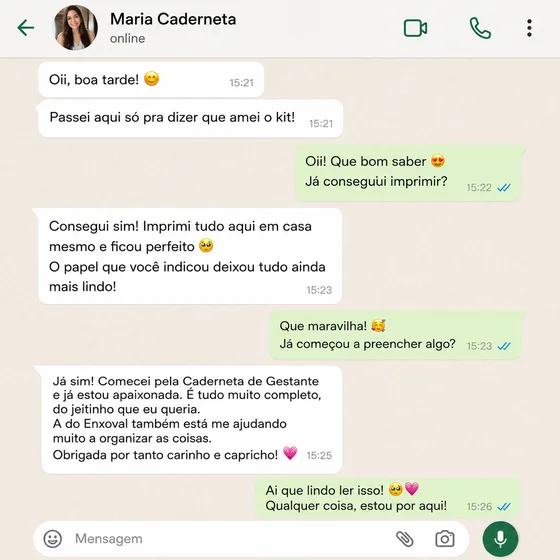
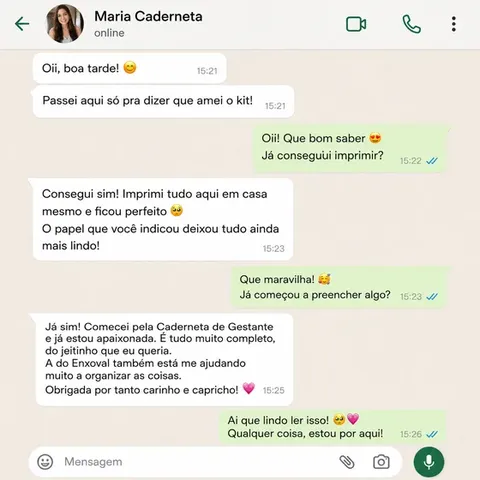
Otimiza performance mobile (PageSpeed: 69 -> Desempenho)
- Redimensiona imagens para o tamanho real exibido (~704 KiB de
  economia): esteira 700x1050->450x675, bônus 700x700->220x220,
  depoimentos 560x560->480x480. Capa do hero ganha arquivo próprio
  (640x960, nítida) separado da miniatura da esteira (antes
  compartilhavam o mesmo arquivo).
- Corrige distorção/CLS: adiciona height:auto na regra base de img
  (o width/height do hero estava esticando a imagem fora de
  proporção quando o container era mais estreito que o atributo).
- fetchpriority=high + width/height explícitos em todas as imagens
  (elimina layout shift, CLS estava em 0.185).
- Carrega a fonte do Google Fonts de forma assíncrona
  (preload + swap), removendo ~2.3s de bloqueio de renderização.
- Corrige contraste do texto branco sobre terracota (.btn, .urgency,
  ribbon "Mais escolhida") trocando para terracota mais escura,
  dentro do mínimo de 4.5:1 do WCAG AA.
- Ribbon do plano completo: troca animação de background-position
  (não compositada) por um brilho via transform, mais leve.
- Adiciona landmark <main> ao redor do conteúdo principal.

diff --git a/index.html b/index.html
@@ -8,7 +8,9 @@
 <meta name="description" content="Caderneta para imprimir e acompanhar a gravidez, o pré-natal e o pós-parto. 77 páginas, acesso imediato, com bônus grátis.">
 <link rel="preconnect" href="https://fonts.googleapis.com">
 <link rel="preconnect" href="https://fonts.gstatic.com" crossorigin>
-<link href="https://fonts.googleapis.com/css2?family=Fraunces:ital,opsz,wght@0,9..144,400;0,9..144,560;0,9..144,650;1,9..144,500&family=Inter:wght@400;500;600;700;800;900&display=swap" rel="stylesheet">
+<link rel="preload" as="style" href="https://fonts.googleapis.com/css2?family=Fraunces:ital,opsz,wght@0,9..144,400;0,9..144,560;0,9..144,650;1,9..144,500&family=Inter:wght@400;500;600;700;800;900&display=swap">
+<link rel="stylesheet" href="https://fonts.googleapis.com/css2?family=Fraunces:ital,opsz,wght@0,9..144,400;0,9..144,560;0,9..144,650;1,9..144,500&family=Inter:wght@400;500;600;700;800;900&display=swap" media="print" onload="this.media='all'">
+<noscript><link rel="stylesheet" href="https://fonts.googleapis.com/css2?family=Fraunces:ital,opsz,wght@0,9..144,400;0,9..144,560;0,9..144,650;1,9..144,500&family=Inter:wght@400;500;600;700;800;900&display=swap"></noscript>
 <style>
 
 /* ---------- Tokens ---------- */
@@ -44,7 +46,7 @@ body{
   line-height:1.5;
   padding-bottom:76px;
 }
-img{max-width:100%;display:block;}
+img{max-width:100%;height:auto;display:block;}
 h1,h2,h3{
   font-family:"Fraunces",Georgia,"Times New Roman",serif;
   color:var(--ink);
@@ -74,7 +76,7 @@ button{font-family:inherit;cursor:pointer;}
 /* ---------- Urgency bar ---------- */
 .urgency{
   position:sticky;top:0;z-index:40;
-  background:var(--terracotta);
+  background:var(--terracotta-dark);
   color:#fff;
   padding:9px 16px;
   text-align:center;
@@ -141,7 +143,7 @@ button{font-family:inherit;cursor:pointer;}
 
 .btn{
   display:inline-flex;align-items:center;justify-content:center;gap:8px;
-  background:var(--terracotta);
+  background:var(--terracotta-dark);
   color:#fff;
   font-weight:800;
   font-size:16px;
@@ -368,17 +370,24 @@ button{font-family:inherit;cursor:pointer;}
 .plan .ribbon{
   position:absolute;top:-15px;left:20px;
   display:flex;align-items:center;gap:5px;
-  background:linear-gradient(100deg, var(--terracotta) 0%, var(--rose) 45%, var(--terracotta) 100%);
-  background-size:220% 100%;
+  background:var(--terracotta-dark);
   color:#fff;font-size:11.5px;font-weight:800;
   letter-spacing:.04em;text-transform:uppercase;
   padding:7px 14px;border-radius:999px;
-  box-shadow:0 8px 16px -6px rgba(200,104,95,.6);
+  box-shadow:0 8px 16px -6px rgba(168,82,74,.6);
+  overflow:hidden;
+}
+.plan .ribbon::after{
+  content:"";
+  position:absolute;top:0;left:0;
+  width:40%;height:100%;
+  background:linear-gradient(100deg, transparent, rgba(255,255,255,.5), transparent);
+  transform:translateX(-180%) skewX(-20deg);
   animation:ribbon-shine 3.5s ease-in-out infinite;
 }
 @keyframes ribbon-shine{
-  0%,100%{background-position:0% 50%;}
-  50%{background-position:100% 50%;}
+  0%, 55%{transform:translateX(-180%) skewX(-20deg);}
+  100%{transform:translateX(380%) skewX(-20deg);}
 }
 #planCompleto .btn{
   font-size:16.5px;padding:18px 26px;
@@ -557,6 +566,7 @@ footer .credit{margin-top:14px;font-size:12px;color:var(--ink-soft);}
   <span class="brandmark">Caderneta da Gestante</span>
 </div>
 
+<main>
 <!-- HERO -->
 <section class="hero">
   <div class="blob"></div>
@@ -577,7 +587,7 @@ footer .credit{margin-top:14px;font-size:12px;color:var(--ink-soft);}
     </div>
 
     <div class="hero-cover">
-      <img src="assets/preview/capa.webp" alt="Capa da Caderneta da Gestante" width="420" height="420" loading="eager">
+      <img src="assets/preview/capa.webp" alt="Capa da Caderneta da Gestante" width="640" height="960" loading="eager" fetchpriority="high">
       <span class="tag">77 páginas ✎</span>
     </div>
   </div>
@@ -595,22 +605,22 @@ footer .credit{margin-top:14px;font-size:12px;color:var(--ink-soft);}
 
   <div class="esteira">
     <div class="esteira-track">
-      <img src="assets/preview/capa.webp" alt="Capa">
-      <img src="assets/preview/calendario.webp" alt="Calendário da gestação">
-      <img src="assets/preview/semana.webp" alt="Acompanhamento semana a semana">
-      <img src="assets/preview/exames.webp" alt="Controle de exames">
-      <img src="assets/preview/plano-parto.webp" alt="Plano de parto">
-      <img src="assets/preview/mala-maternidade.webp" alt="Checklist da mala da maternidade">
-      <img src="assets/preview/amamentacao.webp" alt="Controle de amamentação">
-      <img src="assets/preview/cartinha.webp" alt="Mensagens para o bebê">
-      <img src="assets/preview/capa.webp" alt="" aria-hidden="true">
-      <img src="assets/preview/calendario.webp" alt="" aria-hidden="true">
-      <img src="assets/preview/semana.webp" alt="" aria-hidden="true">
-      <img src="assets/preview/exames.webp" alt="" aria-hidden="true">
-      <img src="assets/preview/plano-parto.webp" alt="" aria-hidden="true">
-      <img src="assets/preview/mala-maternidade.webp" alt="" aria-hidden="true">
-      <img src="assets/preview/amamentacao.webp" alt="" aria-hidden="true">
-      <img src="assets/preview/cartinha.webp" alt="" aria-hidden="true">
+      <img src="assets/preview/capa-thumb.webp" alt="Capa" width="450" height="675" loading="lazy">
+      <img src="assets/preview/calendario.webp" alt="Calendário da gestação" width="450" height="675" loading="lazy">
+      <img src="assets/preview/semana.webp" alt="Acompanhamento semana a semana" width="450" height="675" loading="lazy">
+      <img src="assets/preview/exames.webp" alt="Controle de exames" width="450" height="675" loading="lazy">
+      <img src="assets/preview/plano-parto.webp" alt="Plano de parto" width="450" height="675" loading="lazy">
+      <img src="assets/preview/mala-maternidade.webp" alt="Checklist da mala da maternidade" width="450" height="675" loading="lazy">
+      <img src="assets/preview/amamentacao.webp" alt="Controle de amamentação" width="450" height="675" loading="lazy">
+      <img src="assets/preview/cartinha.webp" alt="Mensagens para o bebê" width="450" height="675" loading="lazy">
+      <img src="assets/preview/capa-thumb.webp" alt="" aria-hidden="true" width="450" height="675" loading="lazy">
+      <img src="assets/preview/calendario.webp" alt="" aria-hidden="true" width="450" height="675" loading="lazy">
+      <img src="assets/preview/semana.webp" alt="" aria-hidden="true" width="450" height="675" loading="lazy">
+      <img src="assets/preview/exames.webp" alt="" aria-hidden="true" width="450" height="675" loading="lazy">
+      <img src="assets/preview/plano-parto.webp" alt="" aria-hidden="true" width="450" height="675" loading="lazy">
+      <img src="assets/preview/mala-maternidade.webp" alt="" aria-hidden="true" width="450" height="675" loading="lazy">
+      <img src="assets/preview/amamentacao.webp" alt="" aria-hidden="true" width="450" height="675" loading="lazy">
+      <img src="assets/preview/cartinha.webp" alt="" aria-hidden="true" width="450" height="675" loading="lazy">
     </div>
   </div>
 
@@ -651,7 +661,7 @@ footer .credit{margin-top:14px;font-size:12px;color:var(--ink-soft);}
     </div>
 
     <div class="bonus-card">
-      <img src="assets/bonus/enxoval-capa.webp" alt="Kit Completo de Enxoval do Bebê">
+      <img src="assets/bonus/enxoval-capa.webp" alt="Kit Completo de Enxoval do Bebê" width="220" height="220" loading="lazy">
       <div class="txt">
         <span class="label">Bônus 01 · grátis</span>
         <strong>Kit Completo de Enxoval do Bebê (40 páginas)</strong>
@@ -659,7 +669,7 @@ footer .credit{margin-top:14px;font-size:12px;color:var(--ink-soft);}
       <div class="price"><span class="was">R$37</span><span class="now">grátis</span></div>
     </div>
     <div class="bonus-card">
-      <img src="assets/bonus/diario-capa.webp" alt="Diário de Memórias do Bebê">
+      <img src="assets/bonus/diario-capa.webp" alt="Diário de Memórias do Bebê" width="220" height="220" loading="lazy">
       <div class="txt">
         <span class="label">Bônus 02 · grátis</span>
         <strong>Diário de Memórias do Bebê (50 páginas)</strong>
@@ -685,43 +695,43 @@ footer .credit{margin-top:14px;font-size:12px;color:var(--ink-soft);}
   <div class="testi-esteira">
     <div class="testi-esteira-track">
       <div class="testi-card">
-        <img src="assets/testimonials/whatsapp-julia.webp" data-full="assets/testimonials/whatsapp-julia-full.webp" alt="Print de conversa no WhatsApp: Julia contando que imprimiu as três cadernetas, a impressão ficou perfeita e o material maravilhoso, e que se emocionou ao começar a preencher a de gestante.">
+        <img src="assets/testimonials/whatsapp-julia.webp" data-full="assets/testimonials/whatsapp-julia-full.webp" width="480" height="480" loading="lazy" alt="Print de conversa no WhatsApp: Julia contando que imprimiu as três cadernetas, a impressão ficou perfeita e o material maravilhoso, e que se emocionou ao começar a preencher a de gestante.">
         <p class="cap"><strong>Julia</strong> · via WhatsApp</p>
       </div>
       <div class="testi-card">
-        <img src="assets/testimonials/whatsapp-maria.webp" data-full="assets/testimonials/whatsapp-maria-full.webp" alt="Print de conversa no WhatsApp: Maria contando que imprimiu tudo em casa, ficou apaixonada pela Caderneta de Gestante e que o kit de Enxoval está ajudando a organizar as coisas.">
+        <img src="assets/testimonials/whatsapp-maria.webp" data-full="assets/testimonials/whatsapp-maria-full.webp" width="480" height="480" loading="lazy" alt="Print de conversa no WhatsApp: Maria contando que imprimiu tudo em casa, ficou apaixonada pela Caderneta de Gestante e que o kit de Enxoval está ajudando a organizar as coisas.">
         <p class="cap"><strong>Maria</strong> · via WhatsApp</p>
       </div>
       <div class="testi-card">
-        <img src="assets/testimonials/whatsapp-cliente.webp" data-full="assets/testimonials/whatsapp-cliente-full.webp" alt="Print de conversa no WhatsApp: cliente contando que já mandou imprimir, amou que veio tudo prontinho e vai guardar o material para mostrar ao filho quando crescer.">
+        <img src="assets/testimonials/whatsapp-cliente.webp" data-full="assets/testimonials/whatsapp-cliente-full.webp" width="480" height="480" loading="lazy" alt="Print de conversa no WhatsApp: cliente contando que já mandou imprimir, amou que veio tudo prontinho e vai guardar o material para mostrar ao filho quando crescer.">
         <p class="cap"><strong>Cliente verificada</strong> · via WhatsApp</p>
       </div>
       <div class="testi-card">
-        <img src="assets/testimonials/whatsapp-camila.webp" data-full="assets/testimonials/whatsapp-camila-full.webp" alt="Print de conversa no WhatsApp: Camila contando que imprimiu em casa, a qualidade do arquivo é ótima, as cores ficaram lindas e que recomendou pra irmã e duas amigas grávidas.">
+        <img src="assets/testimonials/whatsapp-camila.webp" data-full="assets/testimonials/whatsapp-camila-full.webp" width="480" height="480" loading="lazy" alt="Print de conversa no WhatsApp: Camila contando que imprimiu em casa, a qualidade do arquivo é ótima, as cores ficaram lindas e que recomendou pra irmã e duas amigas grávidas.">
         <p class="cap"><strong>Camila</strong> · via WhatsApp</p>
       </div>
       <div class="testi-card">
-        <img src="assets/testimonials/whatsapp-ana.webp" data-full="assets/testimonials/whatsapp-ana-full.webp" alt="Print de conversa no WhatsApp: Ana contando que baixou e imprimiu em casa, ficou perfeito, a qualidade é ótima e o conteúdo muito completo.">
+        <img src="assets/testimonials/whatsapp-ana.webp" data-full="assets/testimonials/whatsapp-ana-full.webp" width="480" height="480" loading="lazy" alt="Print de conversa no WhatsApp: Ana contando que baixou e imprimiu em casa, ficou perfeito, a qualidade é ótima e o conteúdo muito completo.">
         <p class="cap"><strong>Ana</strong> · via WhatsApp</p>
       </div>
       <div class="testi-card" aria-hidden="true">
-        <img src="assets/testimonials/whatsapp-julia.webp" data-full="assets/testimonials/whatsapp-julia-full.webp" alt="">
+        <img src="assets/testimonials/whatsapp-julia.webp" data-full="assets/testimonials/whatsapp-julia-full.webp" width="480" height="480" loading="lazy" alt="">
         <p class="cap"><strong>Julia</strong> · via WhatsApp</p>
       </div>
       <div class="testi-card" aria-hidden="true">
-        <img src="assets/testimonials/whatsapp-maria.webp" data-full="assets/testimonials/whatsapp-maria-full.webp" alt="">
+        <img src="assets/testimonials/whatsapp-maria.webp" data-full="assets/testimonials/whatsapp-maria-full.webp" width="480" height="480" loading="lazy" alt="">
         <p class="cap"><strong>Maria</strong> · via WhatsApp</p>
       </div>
       <div class="testi-card" aria-hidden="true">
-        <img src="assets/testimonials/whatsapp-cliente.webp" data-full="assets/testimonials/whatsapp-cliente-full.webp" alt="">
+        <img src="assets/testimonials/whatsapp-cliente.webp" data-full="assets/testimonials/whatsapp-cliente-full.webp" width="480" height="480" loading="lazy" alt="">
         <p class="cap"><strong>Cliente verificada</strong> · via WhatsApp</p>
       </div>
       <div class="testi-card" aria-hidden="true">
-        <img src="assets/testimonials/whatsapp-camila.webp" data-full="assets/testimonials/whatsapp-camila-full.webp" alt="">
+        <img src="assets/testimonials/whatsapp-camila.webp" data-full="assets/testimonials/whatsapp-camila-full.webp" width="480" height="480" loading="lazy" alt="">
         <p class="cap"><strong>Camila</strong> · via WhatsApp</p>
       </div>
       <div class="testi-card" aria-hidden="true">
-        <img src="assets/testimonials/whatsapp-ana.webp" data-full="assets/testimonials/whatsapp-ana-full.webp" alt="">
+        <img src="assets/testimonials/whatsapp-ana.webp" data-full="assets/testimonials/whatsapp-ana-full.webp" width="480" height="480" loading="lazy" alt="">
         <p class="cap"><strong>Ana</strong> · via WhatsApp</p>
       </div>
     </div>
@@ -857,6 +867,7 @@ footer .credit{margin-top:14px;font-size:12px;color:var(--ink-soft);}
     </div>
   </div>
 </section>
+</main>
 
 <footer>
   <div class="wrap">
